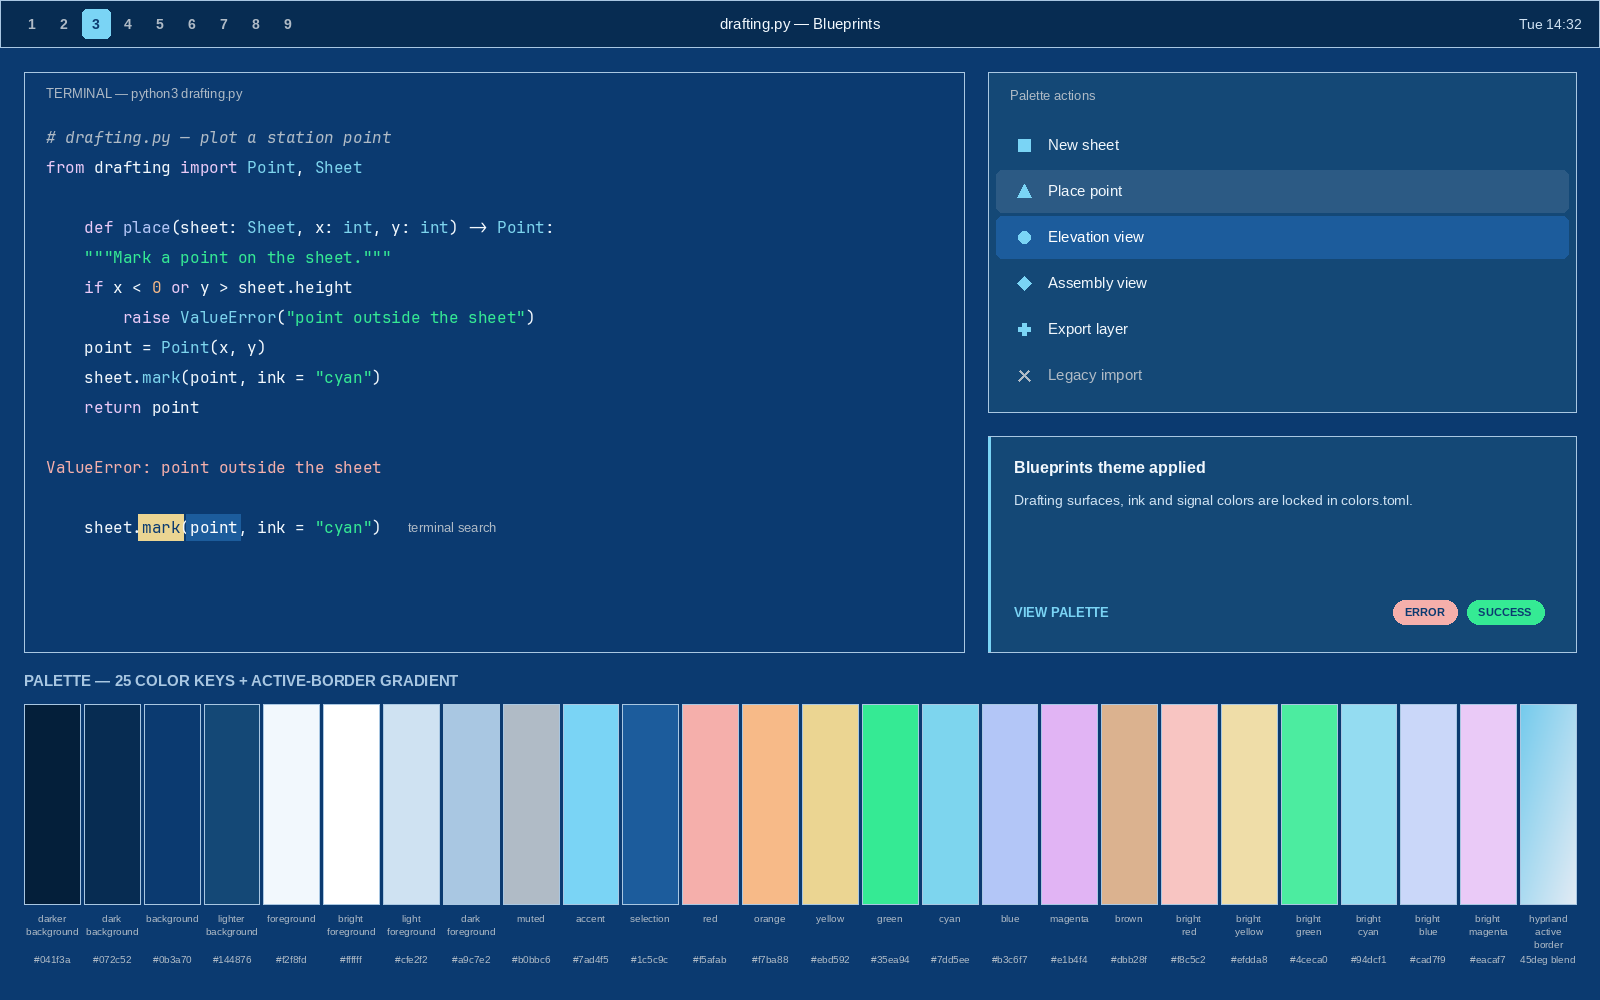
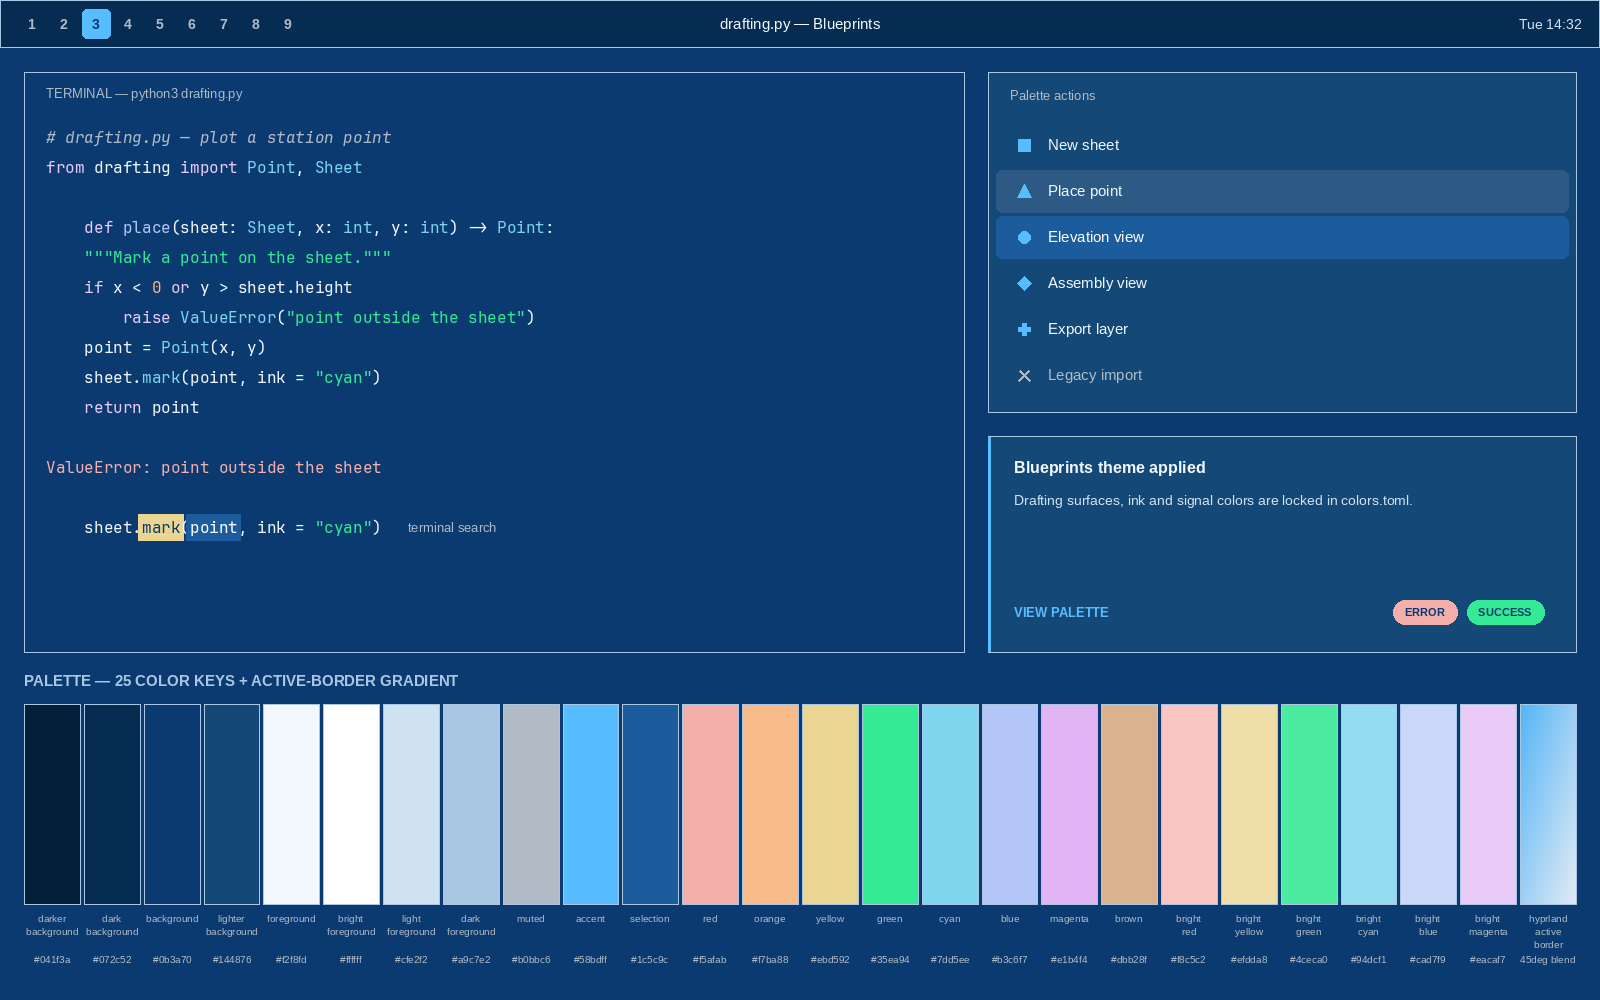
theme: separate accent from ANSI cyan; add lock wordmark
accent #7ad4f5 was indistinguishable from cyan #7dd5ee (luminance ratio
1.005, same hue family) — retuned to #58bdff so the UI signal separates
from ANSI cyan by depth (5.47:1 vs 6.81:1 on the canvas), keeping the
4.5:1 floor on the raised surface. Adds unlock.png (lock-screen wordmark
for the optional lock-explorer Plymouth plugin) and re-renders
palette-check with the new accent.

diff --git a/README.md b/README.md
@@ -42,7 +42,7 @@ omarchy theme set blueprints
 | `light_foreground` | `#cfe2f2` | Secondary text. |
 | `dark_foreground` | `#a9c7e2` | Tertiary text. |
 | `muted` | `#b0bbc6` | Comments and de-emphasis; ANSI 8. |
-| `accent` | `#7ad4f5` | Interactive accent; start color of the active window border. |
+| `accent` | `#58bdff` | Interactive accent; start color of the active window border. |
 | `selection` | `#1c5c9c` | Selection background; quiet against the canvas, high-contrast under white text. |
 | `red` | `#f5afab` | Chromatic; ANSI 1. |
 | `orange` | `#f7ba88` | Chromatic; editor numbers. |
@@ -58,9 +58,9 @@ omarchy theme set blueprints
 | `bright_cyan` | `#94dcf1` | Chromatic; ANSI 14. |
 | `bright_blue` | `#cad7f9` | Chromatic; ANSI 12. |
 | `bright_magenta` | `#eacaf7` | Chromatic; editor keywords; ANSI 13. |
-| `hyprland_active_border` | `rgba(7ad4f5ee) rgba(f2f8fdee) 45deg` | Active window border: 45° cyan-to-white gradient. |
+| `hyprland_active_border` | `rgba(58bdffee) rgba(f2f8fdee) 45deg` | Active window border: 45° sky-to-white gradient. |
 
-`accent` and `selection` complete the interactive pair: `accent` draws attention (borders, active elements), `selection` holds it (the region you dragged over).
+`accent` and `selection` complete the interactive pair: `accent` draws attention (borders, active elements), `selection` holds it (the region you dragged over). The accent is a deliberate step deeper than ANSI `cyan` — 5.47:1 against the canvas versus `cyan`'s 6.81:1 — so an active border or selected label never reads as a syntax token.
 
 ## Contrast
 
@@ -75,7 +75,7 @@ Read the table as guarantees: if you extend or restyle the palette, re-measure a
 | `light_foreground` | 8.53 | 7.13 |
 | `dark_foreground` | 6.45 | 5.39 |
 | `muted` | 5.81 | 4.85 |
-| `accent` | 6.78 | 5.66 |
+| `accent` | 5.47 | 4.57 |
 | `red` | 6.26 | 5.23 |
 | `orange` | 6.65 | 5.56 |
 | `yellow` | 7.80 | 6.52 |
@@ -91,7 +91,7 @@ Read the table as guarantees: if you extend or restyle the palette, re-measure a
 | `bright_blue` | 7.88 | 6.58 |
 | `bright_magenta` | 7.71 | 6.44 |
 
-Every chromatic token clears the WCAG AA threshold of 4.5:1 on both surfaces; the dimmest tokens in the set, `muted` (5.81 / 4.85) and `brown` (5.81 / 4.86), still sit a comfortable step above it. Body text clears 10:1 on the canvas. `lighter_background` is measured alongside `background` because floats, tooltips, and NeoVim's `NormalFloat` render on the raised surface — the surface most palettes forget to check, which is how popups end up washed out or illegible in otherwise careful themes.
+Every chromatic token clears the WCAG AA threshold of 4.5:1 on both surfaces; the dimmest chromatic, `brown` (5.81 / 4.86), and the de-emphasis gray `muted` (5.81 / 4.85), still sit a comfortable step above it. The accent is the one token tuned just inside that band on the raised surface (5.47 / 4.57), because depth is what separates it from ANSI `cyan`. Body text clears 10:1 on the canvas. `lighter_background` is measured alongside `background` because floats, tooltips, and NeoVim's `NormalFloat` render on the raised surface — the surface most palettes forget to check, which is how popups end up washed out or illegible in otherwise careful themes.
 
 The selection is verified in both directions: `selection` `#1c5c9c` sits 1.65:1 off the canvas — visible but quiet — while white text on it reaches 6.86:1. Inside a float the same selection drops to 1.38:1 against `lighter_background`; the white text on it is unchanged at 6.86:1. The surface steps themselves stay deliberately close, 1.20:1 between canvas and raised and 1.24:1 between canvas and the unfocused `dark_background` step, because panel boundaries in this theme are drawn by position and the accent border rather than by luminance jumps.
 
@@ -122,12 +122,13 @@ The cool tokens do not need the same treatment: `cyan` and `blue` already sit ne
 - `colors.toml` — the entire theme.
 - `backgrounds/` — three wallpapers (below).
 - `preview.png` and `palette-check.png` — the images on this page.
+- `unlock.png` — the lock-screen wordmark, consumed as `logo.png` by the optional `lock-explorer` Plymouth plugin. Stock Omarchy ignores it.
 
 Nothing in the repository executes on your machine: no `.lua`, no terminal configs (`alacritty.toml`, `foot.ini`, `ghostty.conf`, `kitty.conf`), no `vscode.json`. When `omarchy theme install` clones a theme it keeps only the color files, and Omarchy regenerates everything else from `colors.toml` — so those files are intentionally absent here.
 
 If you fork or restyle the theme, `colors.toml` is the only file to edit; `preview.png`, `palette-check.png`, and the backgrounds are rendered artifacts of it, and everything Omarchy generates downstream follows from it.
 
-One compositor value is themed: `hyprland_active_border`, a 45° cyan-to-white gradient (`rgba(7ad4f5ee) rgba(f2f8fdee) 45deg`) on the focused window. Window metrics — gaps, border size, rounding — are machine configuration in `~/.config/hypr/looknfeel.lua` and out of a theme's scope.
+One compositor value is themed: `hyprland_active_border`, a 45° sky-to-white gradient (`rgba(58bdffee) rgba(f2f8fdee) 45deg`) on the focused window. Window metrics — gaps, border size, rounding — are machine configuration in `~/.config/hypr/looknfeel.lua` and out of a theme's scope.
 
 ## Backgrounds
 
